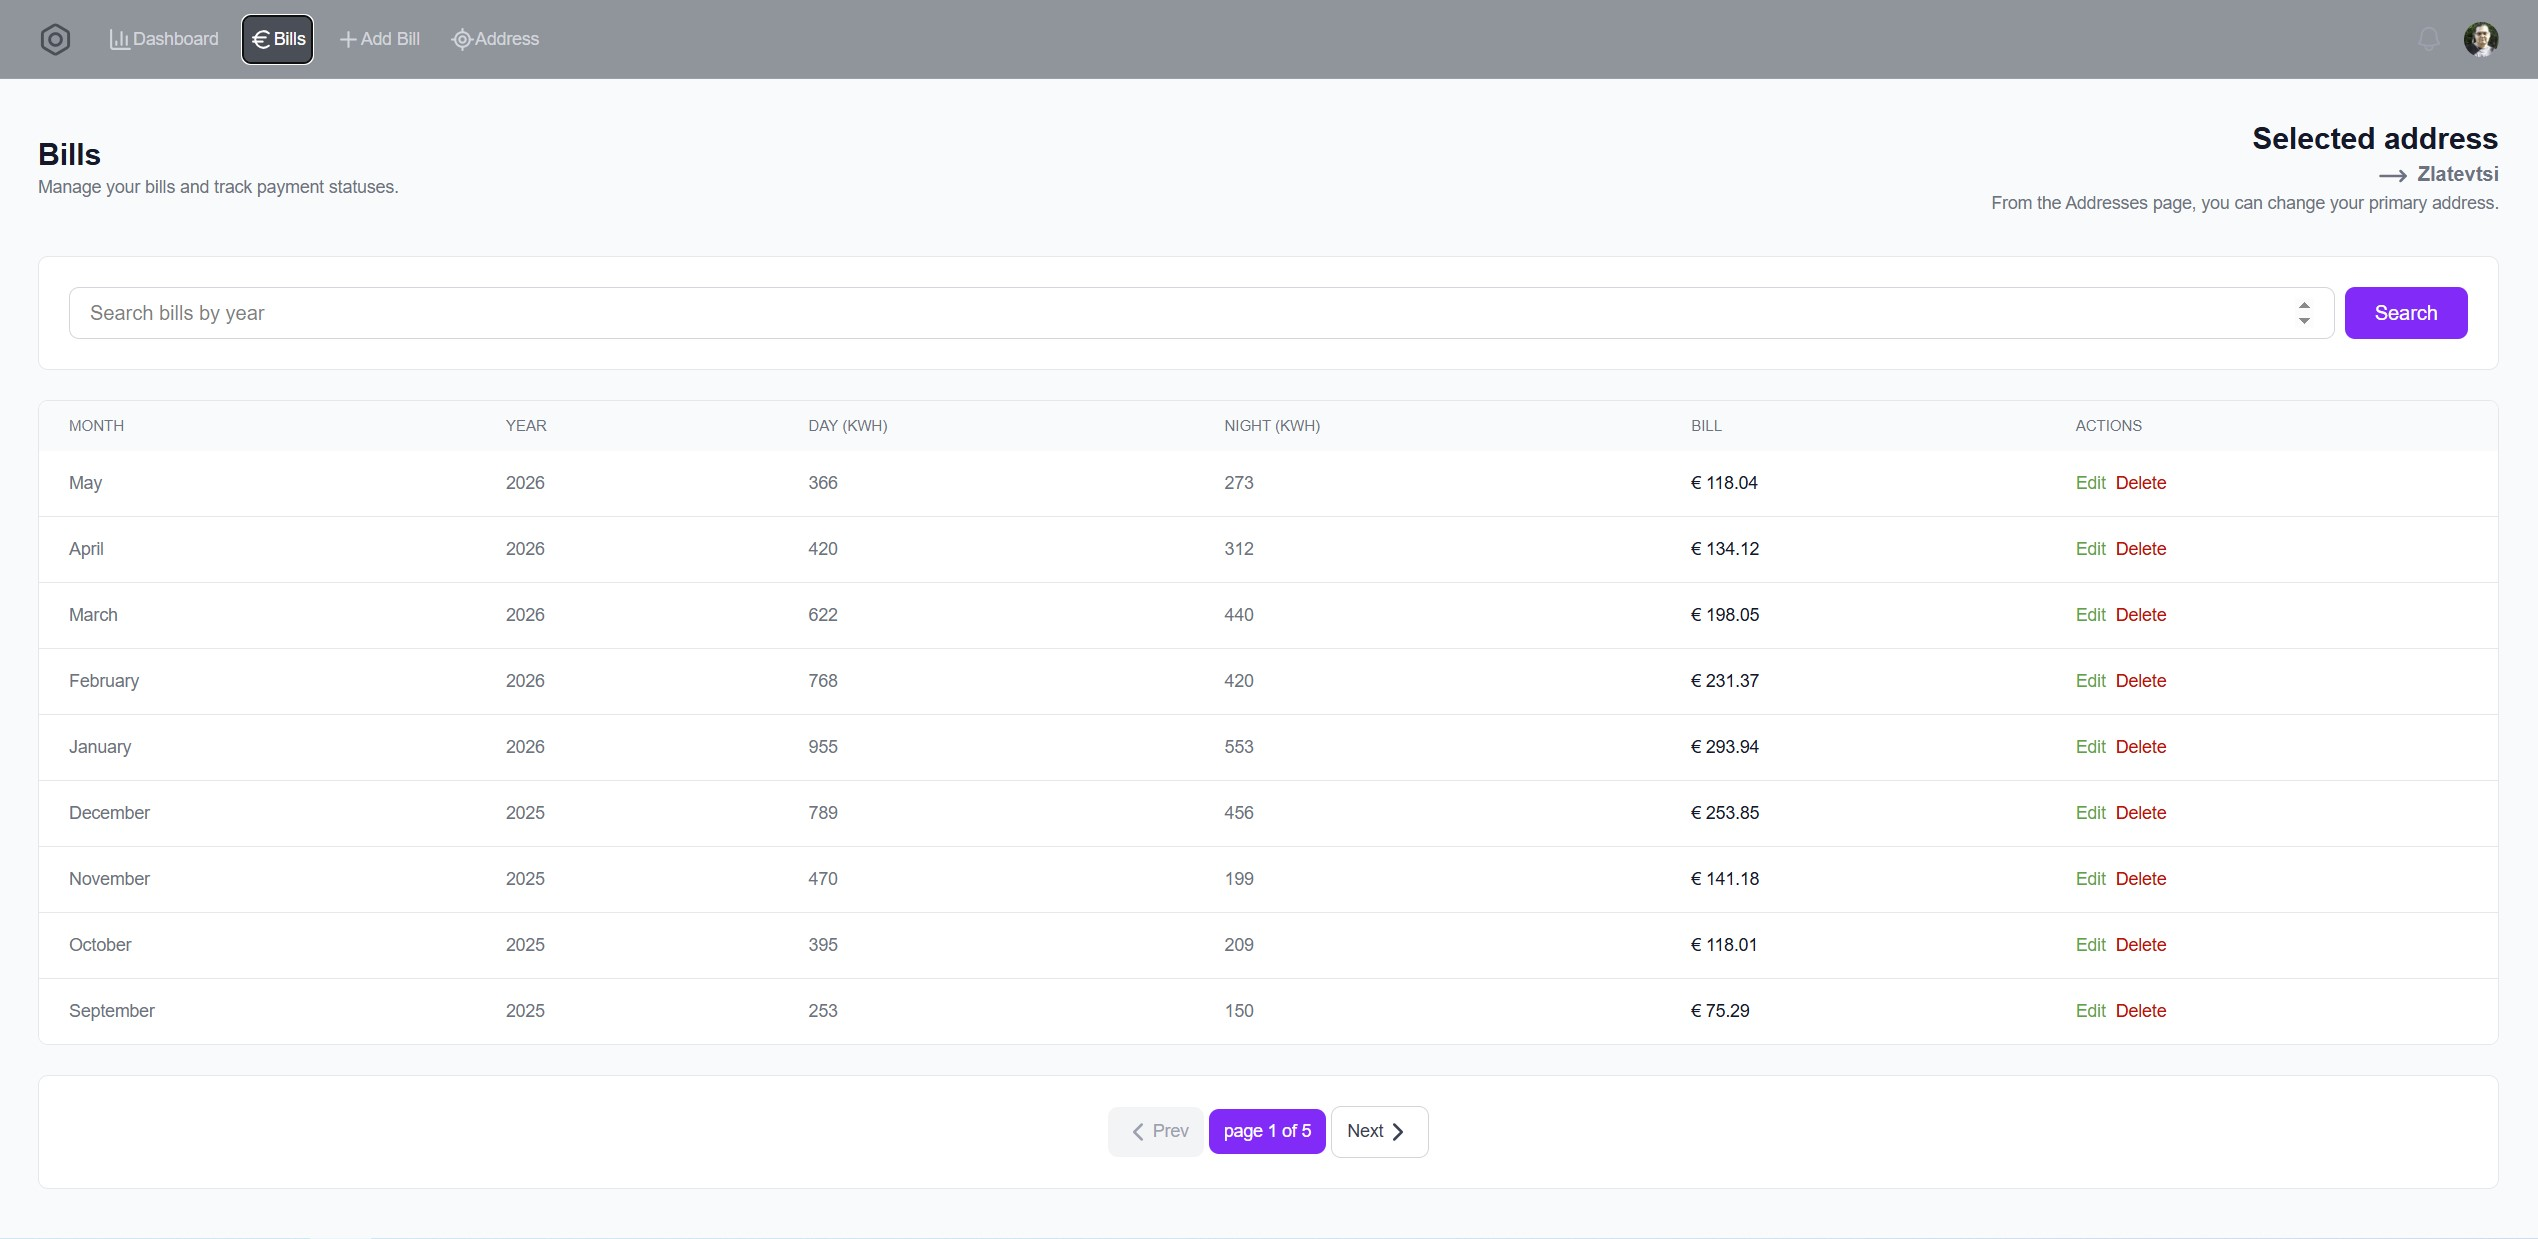
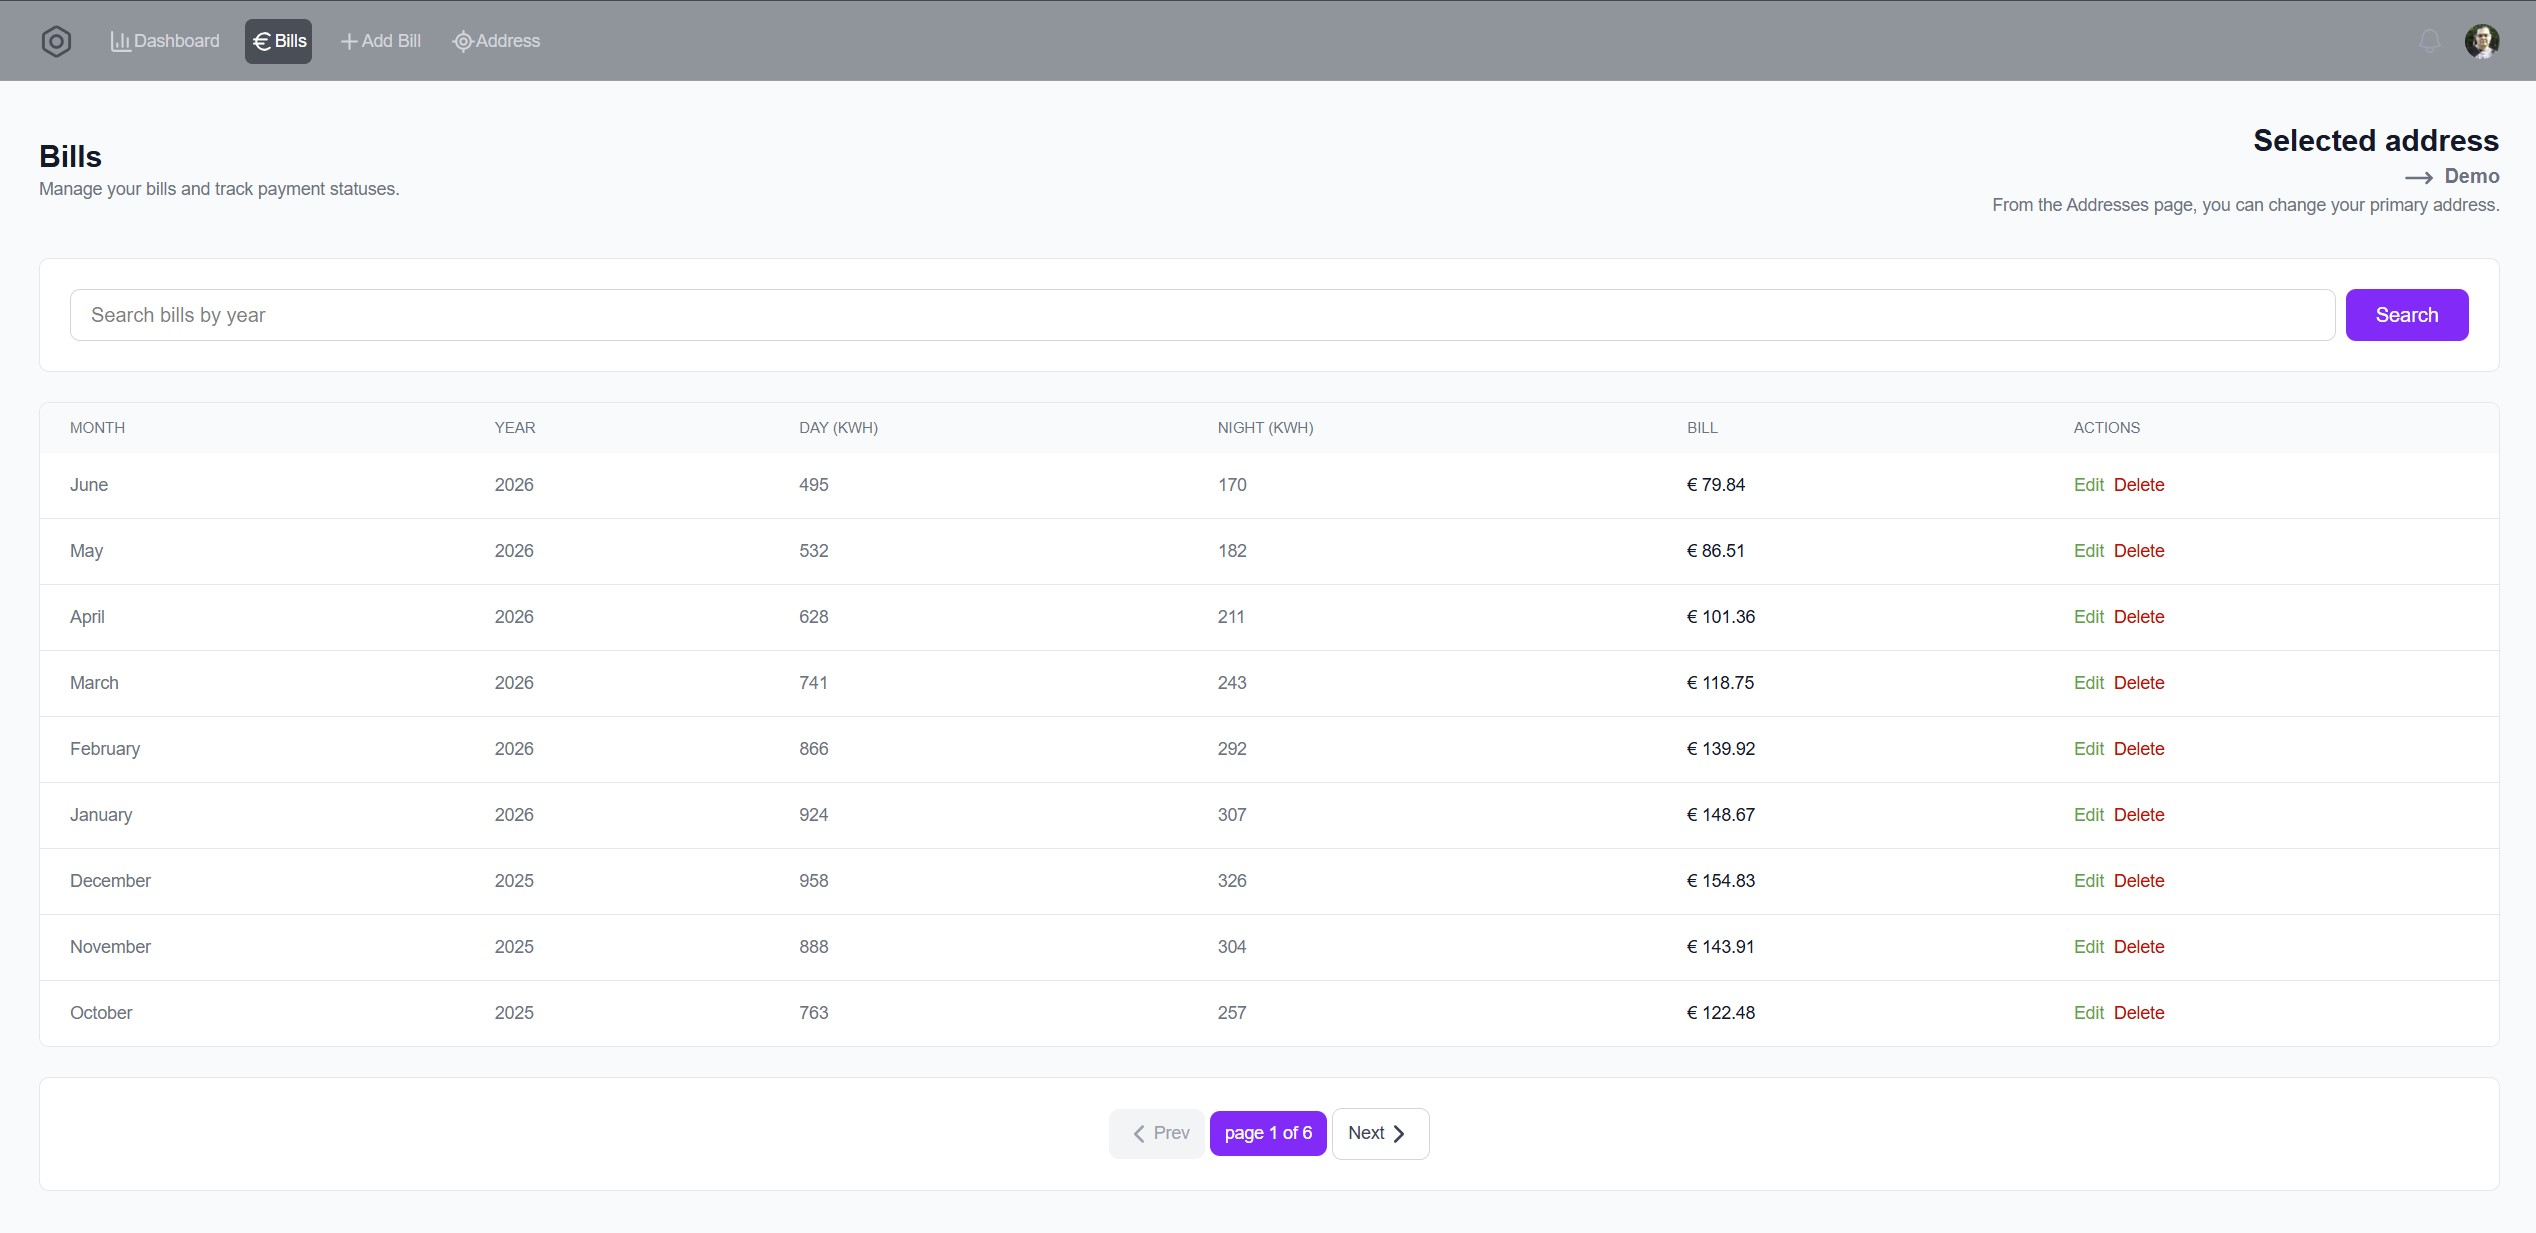
Edit README.md

diff --git a/components/price/price.chart.tsx b/components/price/price.chart.tsx
@@ -10,6 +10,7 @@ import {
     YAxis,
     YAxisTickContentProps,
     Text,
+    ResponsiveContainer,
 } from "recharts";
 
 const CustomYAxisTick = (props: YAxisTickContentProps) => {
@@ -49,79 +50,81 @@ interface ChartData {
 
 const PriceChart = ({ data }: { data: ChartData[] }) => {
     return (
-        <BarChart
-            data={data}
-            style={{
-                width: "100%",
-                maxWidth: "700px",
-                maxHeight: "70vh",
-                aspectRatio: 1.618,
-            }}
-            margin={{
-                top: 10,
-                right: 10,
-                left: 0,
-                bottom: 5,
-            }}
-        >
-            <CartesianGrid strokeDasharray="3 3" stroke="#dddddd" />
-            <XAxis
-                dataKey="label"
-                stroke="#666"
-                fontSize={12}
-                tickLine={false}
-                axisLine={false}
-            />
-            <YAxis
-                stroke="#666"
-                fontSize={12}
-                tickLine={false}
-                axisLine={false}
-                allowDecimals={false}
-                width="auto"
-                tick={CustomYAxisTick}
-            />
-
-            <Bar
-                dataKey="priceChangePct"
-                fill="#cb384e"
-                fillOpacity={0.8}
-                barSize={35}
-                radius={[3, 3, 0, 0]}
-            >
-                <LabelList position="top" fontSize={12} />
-            </Bar>
-
-            <Bar
-                dataKey="consumptionChangePct"
-                fill="#384ec6"
-                fillOpacity={0.8}
-                barSize={35}
-                radius={[3, 3, 0, 0]}
-            >
-                <LabelList position="top" fontSize={12} />
-            </Bar>
-
-            <Bar
-                dataKey="billChangePct"
-                fill="#4bbc37"
-                fillOpacity={0.8}
-                barSize={35}
-                radius={[3, 3, 0, 0]}
-            >
-                <LabelList position="top" fontSize={12} />
-            </Bar>
-
-            <Tooltip
-                contentStyle={{
-                    backgroundColor: "white",
-                    border: "1px solid #e5e7eb",
-                    borderRadius: "8px",
-                    boxShadow: "0 4px 6px -1px rgba(0, 0, 0, 0.1)",
+        <ResponsiveContainer width="100%" height={300}>
+            <BarChart
+                data={data}
+                // style={{
+                //     width: "100%",
+                //     maxWidth: "700px",
+                //     maxHeight: "70vh",
+                //     aspectRatio: 1.618,
+                // }}
+                margin={{
+                    top: 10,
+                    right: 10,
+                    left: 0,
+                    bottom: 5,
                 }}
-                labelStyle={{ color: "#3c5137", fontWeight: "400" }}
-            />
-        </BarChart>
+            >
+                <CartesianGrid strokeDasharray="3 3" stroke="#dddddd" />
+                <XAxis
+                    dataKey="label"
+                    stroke="#666"
+                    fontSize={12}
+                    tickLine={false}
+                    axisLine={false}
+                />
+                <YAxis
+                    stroke="#666"
+                    fontSize={12}
+                    tickLine={false}
+                    axisLine={false}
+                    allowDecimals={false}
+                    width="auto"
+                    tick={CustomYAxisTick}
+                />
+
+                <Bar
+                    dataKey="priceChangePct"
+                    fill="#cb384e"
+                    fillOpacity={0.8}
+                    barSize={35}
+                    radius={[3, 3, 0, 0]}
+                >
+                    <LabelList position="top" fontSize={12} />
+                </Bar>
+
+                <Bar
+                    dataKey="consumptionChangePct"
+                    fill="#384ec6"
+                    fillOpacity={0.8}
+                    barSize={35}
+                    radius={[3, 3, 0, 0]}
+                >
+                    <LabelList position="top" fontSize={12} />
+                </Bar>
+
+                <Bar
+                    dataKey="billChangePct"
+                    fill="#4bbc37"
+                    fillOpacity={0.8}
+                    barSize={35}
+                    radius={[3, 3, 0, 0]}
+                >
+                    <LabelList position="top" fontSize={12} />
+                </Bar>
+
+                <Tooltip
+                    contentStyle={{
+                        backgroundColor: "white",
+                        border: "1px solid #e5e7eb",
+                        borderRadius: "8px",
+                        boxShadow: "0 4px 6px -1px rgba(0, 0, 0, 0.1)",
+                    }}
+                    labelStyle={{ color: "#3c5137", fontWeight: "400" }}
+                />
+            </BarChart>
+        </ResponsiveContainer>
     );
 };
 

diff --git a/lib/bill/tools/bill.file.parser.ts b/lib/bill/tools/bill.file.parser.ts
@@ -6,7 +6,7 @@ import { parseTotal } from "@/lib/bill/tools/parserTools/parseTotal";
 import { parsePeriod } from "@/lib/bill/tools/parserTools/parsePeriod";
 
 type ParsedBillFileResult = {
-    parsedPeriod: { month: string; year: string }; // | null;
+    parsedPeriod: { month: string; year: string };
     parsedDayCons: string;
     parsedNightCons: string;
     parsedTotal: string;

diff --git a/README.md b/README.md
@@ -1,6 +1,6 @@
 # Electricity Bills Archive and Analytics
 
-Live app: http://powertrack.duckdns.org
+Live app: https://powertrack.duckdns.org
 
 Full-stack web application for storing electricity bills, managing addresses, and analyzing payment and consumption trends over time.
 
@@ -238,6 +238,193 @@ Current protected areas include:
 - /bills
 - /add-bill
 - /address
+
+---
+
+# Deployment and Infrastructure
+
+All deployment and infrastructure code lives in the `infra/` directory. The live environment runs on a single Azure Linux VM with Nginx, PostgreSQL (external), and observability stack on the same host.
+
+## Context and Evolution
+
+This is an educational project, so the infrastructure intentionally uses the cheapest viable Azure VM size (`Standard_B2ats_v2` by default in Terraform). That kept costs low while learning provisioning, configuration management, and release automation.
+
+The first deployment model built the application directly on the VM:
+
+- Git checkout on the server
+- `npm ci`, Prisma generate/migrate, and `npm run build` on the VM
+- PM2 process manager for the Next.js app
+
+That workflow is preserved in `infra/ansible/playbooks/site.yml` and the `app` role for historical reference.
+
+After adding Prometheus and Grafana for metrics, the VM hit a critical resource limit. RAM became insufficient for Node.js build, the app, Nginx, Prometheus, and Grafana at the same time. Swap helped only partially, and redeploy time grew to about **1.5 hours** per release.
+
+The current model moves build work off the VM:
+
+- GitHub Actions builds Docker images in CI (app + migrator)
+- Images are pushed to GitHub Container Registry (GHCR)
+- The VM only pulls pre-built images and runs containers
+
+Ansible deploys via `infra/ansible/playbooks/site-docker.yml` and the `docker_app` role. The legacy Node/PM2 path remains in the repo so the infrastructure evolution can be traced over time.
+
+## High-Level Architecture
+
+```text
+GitHub Actions (build + push image)
+        |
+        v
+   GHCR (app + migrator images)
+        |
+        v
+Azure VM (Ubuntu 24.04)
+  ├── Nginx (reverse proxy, TLS, /healthz, /metrics)
+  ├── Docker: blue/green app slots (ports 3001 / 3002)
+  ├── Prometheus (dedicated Azure data disk)
+  ├── Grafana (localhost only)
+  └── node_exporter (host metrics)
+        |
+        v
+External PostgreSQL database
+```
+
+## `infra/` Layout
+
+```text
+infra/
+├── terraform/                 # Azure resource provisioning
+│   ├── main.tf                # RG, VNet, NSG, VM, public IP, Prometheus disk
+│   ├── variables.tf
+│   ├── outputs.tf
+│   └── terraform.tfvars.example
+└── ansible/                   # Server configuration and deployment
+    ├── playbooks/
+    │   ├── site-docker.yml    # Current Docker-based blue/green deploy
+    │   └── site.yml           # Legacy Node.js + PM2 deploy (historical)
+    ├── group_vars/all/        # Shared variables and encrypted secrets (vault)
+    ├── inventory.ini
+    └── roles/
+        ├── common             # Base packages, swap, Nginx/Certbot prerequisites
+        ├── docker             # Docker engine setup
+        ├── docker_app         # Pull image, run migrations, start container slot
+        ├── app                # Legacy git checkout + npm build + PM2 (historical)
+        ├── node               # Legacy Node.js + PM2 setup (historical)
+        ├── nginx              # Reverse proxy, TLS, active slot routing
+        ├── prometheus         # Prometheus install + persistent TSDB disk mount
+        ├── grafana            # Grafana install + datasource/dashboard provisioning
+        └── node_exporter      # Host-level metrics exporter
+```
+
+## Azure Infrastructure (Terraform)
+
+Terraform provisions:
+
+- Resource group, virtual network, subnet, and network security group
+- Public IP with DuckDNS-friendly domain label (`powertrack.duckdns.org`)
+- Single Linux VM (Ubuntu 24.04 LTS, SSH key auth)
+- Dedicated managed disk for Prometheus TSDB data (mounted at `/var/lib/prometheus`)
+
+NSG inbound rules allow SSH (restricted to a configured IP), HTTP, and HTTPS.
+
+Example bootstrap:
+
+```bash
+cd infra/terraform
+cp terraform.tfvars.example terraform.tfvars
+# edit terraform.tfvars with your Azure values
+terraform init
+terraform apply
+```
+
+## Ansible Deployment
+
+The active playbook is `site-docker.yml`. It performs a blue/green rollout:
+
+1. Deploy the new app version to the inactive slot (blue on port 3001 or green on port 3002)
+2. Run Prisma migrations via a dedicated migrator image
+3. Smoke-test the inactive slot locally
+4. Switch Nginx traffic to the new slot
+5. Roll back automatically if health checks fail
+
+Shared deployment settings are in `infra/ansible/group_vars/all/all.yml` (domain, ports, image repository, Prometheus/Grafana paths). Sensitive values are stored in Ansible Vault (`vault.yml`).
+
+Manual deploy example:
+
+```bash
+cd infra/ansible
+ansible-playbook -i inventory.ini playbooks/site-docker.yml \
+  --vault-password-file ~/.ansible_vault_pass \
+  --extra-vars "image_tag=latest forced_target_color=auto"
+```
+
+## CI/CD
+
+Production deploys are automated by `.github/workflows/build_and_deploy.yml`:
+
+1. On push to `main` (or manual workflow dispatch), build and push:
+    - `ghcr.io/<repo>:<sha>` and `:latest` (application image)
+    - `ghcr.io/<repo>:migrator-<sha>` (migration runner image)
+2. Run Ansible `site-docker.yml` against the Azure VM over SSH
+
+This keeps heavy build steps (`npm ci`, Prisma generate, Next.js build) in GitHub runners instead of on the small VM.
+
+## Metrics and Observability
+
+Observability was added after the initial deployment and became the main driver for moving to Docker.
+
+### Prometheus
+
+- Installed on the VM via Ansible
+- Stores metrics on a dedicated Azure managed disk (default 64 GB, 15-day retention)
+- Scrapes:
+    - itself (`127.0.0.1:9090`)
+    - the PowerTrack app through Nginx at `/metrics` (localhost-only access enforced by Nginx)
+    - `node_exporter` for host CPU, memory, disk, and network metrics
+
+### Application Metrics
+
+The app exposes Prometheus metrics at `/metrics` (`app/metrics/route.ts`, `lib/observability/metrics.ts`) using `prom-client`:
+
+- Default Node.js process metrics
+- Request counters, duration histograms, in-flight gauge, and error counters
+- Business counters for bills and addresses (create/delete/validation)
+- Registered users gauge
+
+### Grafana
+
+- Installed on the VM and bound to `127.0.0.1:3003` (not exposed publicly)
+- Prometheus datasource and dashboards are provisioned automatically from Ansible
+- Predefined dashboards in `infra/ansible/roles/grafana/files/dashboards/`:
+    - `powertrack-app.json` — application health and request metrics
+    - `powertrack-business.json` — bill/address activity and user counts
+    - `powertrack-infra.json` — VM and host resource usage
+
+Access Grafana locally via SSH tunnel:
+
+```bash
+ssh -L 3003:127.0.0.1:3003 <user>@<vm-public-ip>
+```
+
+Then open http://localhost:3003
+
+### node_exporter
+
+Host metrics are collected by `prometheus-node-exporter`, listening on `127.0.0.1:9100` and scraped by Prometheus.
+
+---
+
+### Screenshots
+
+#### Azure
+
+![Azure resource group overview](screenshots/infra/azure-resource-group.jpg)
+
+#### Grafana Dashboards
+
+![Grafana app dashboard](screenshots/infra/grafana-app-dashboard.jpg)
+
+![Grafana business dashboard](screenshots/infra/grafana-business-dashboard.jpg)
+
+![Grafana infrastructure dashboard](screenshots/infra/grafana-infra-dashboard.jpg)
 
 ## Status
 
